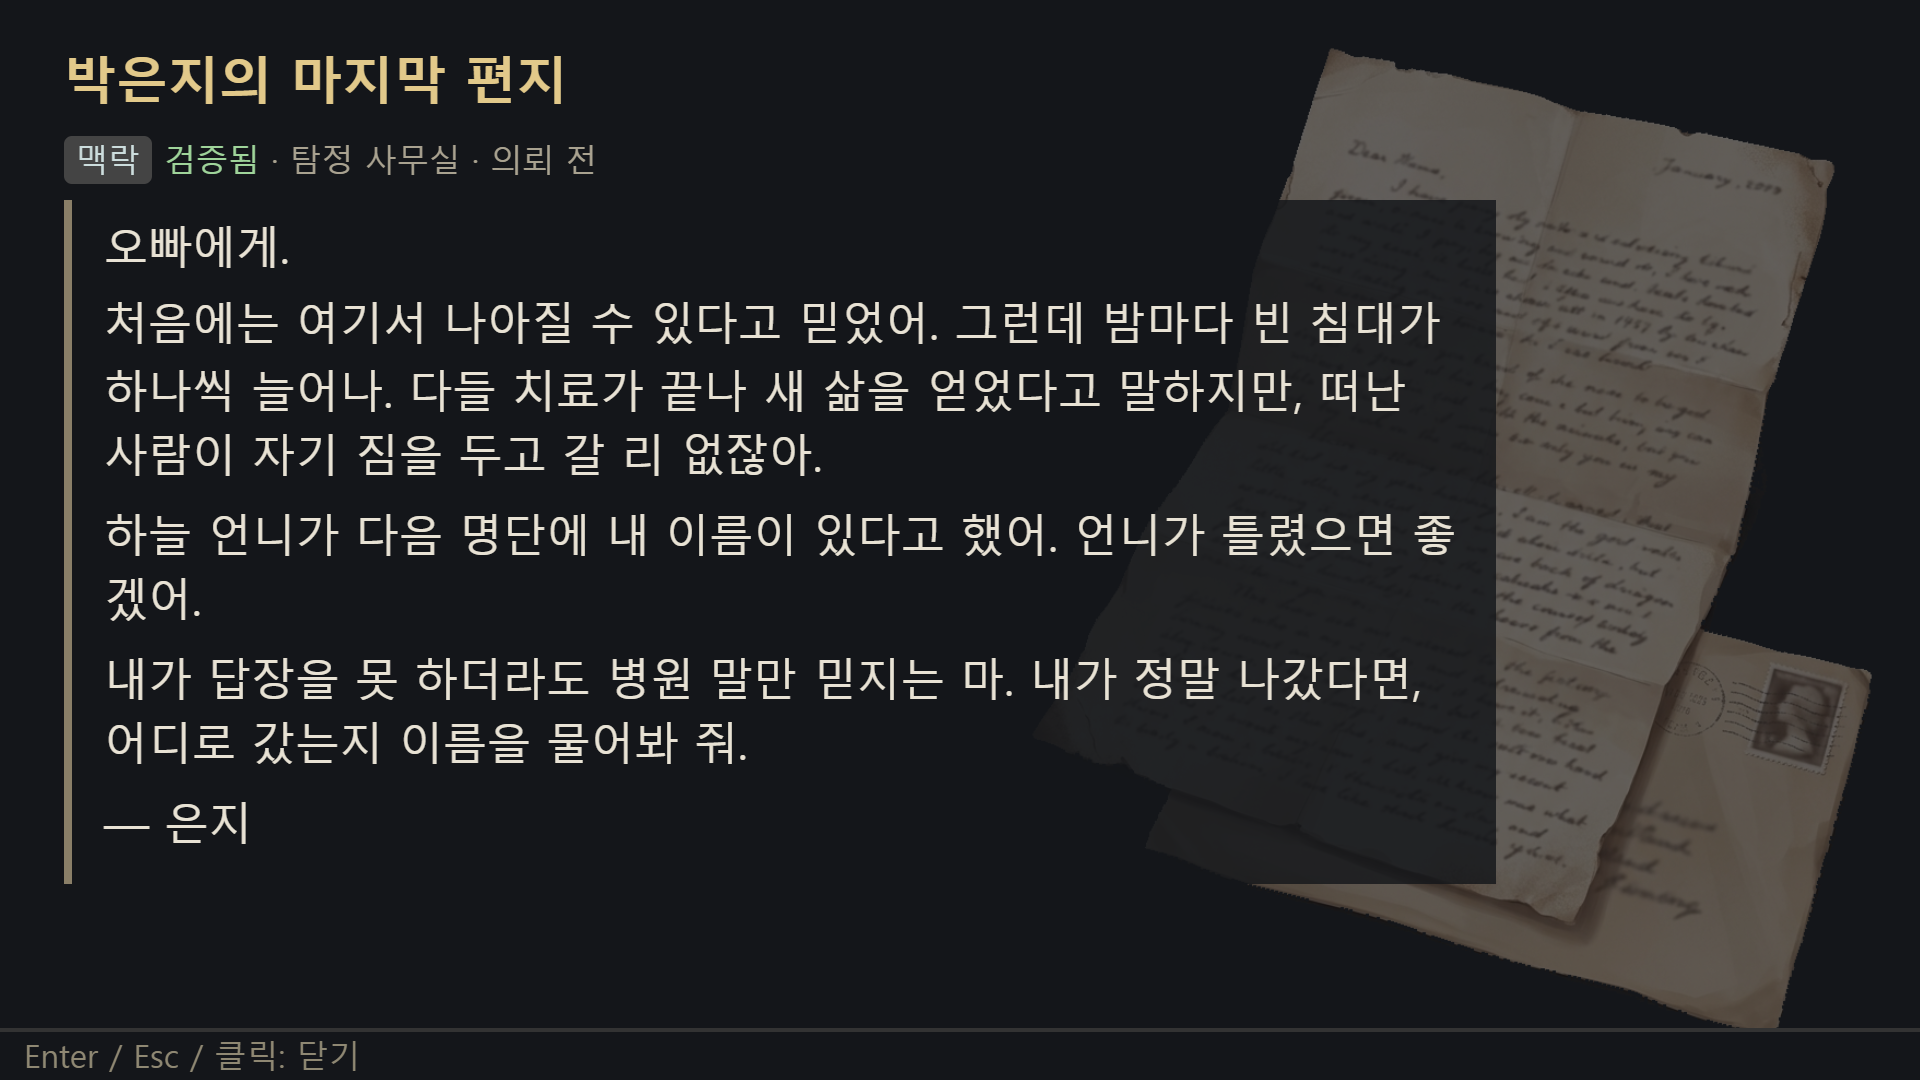
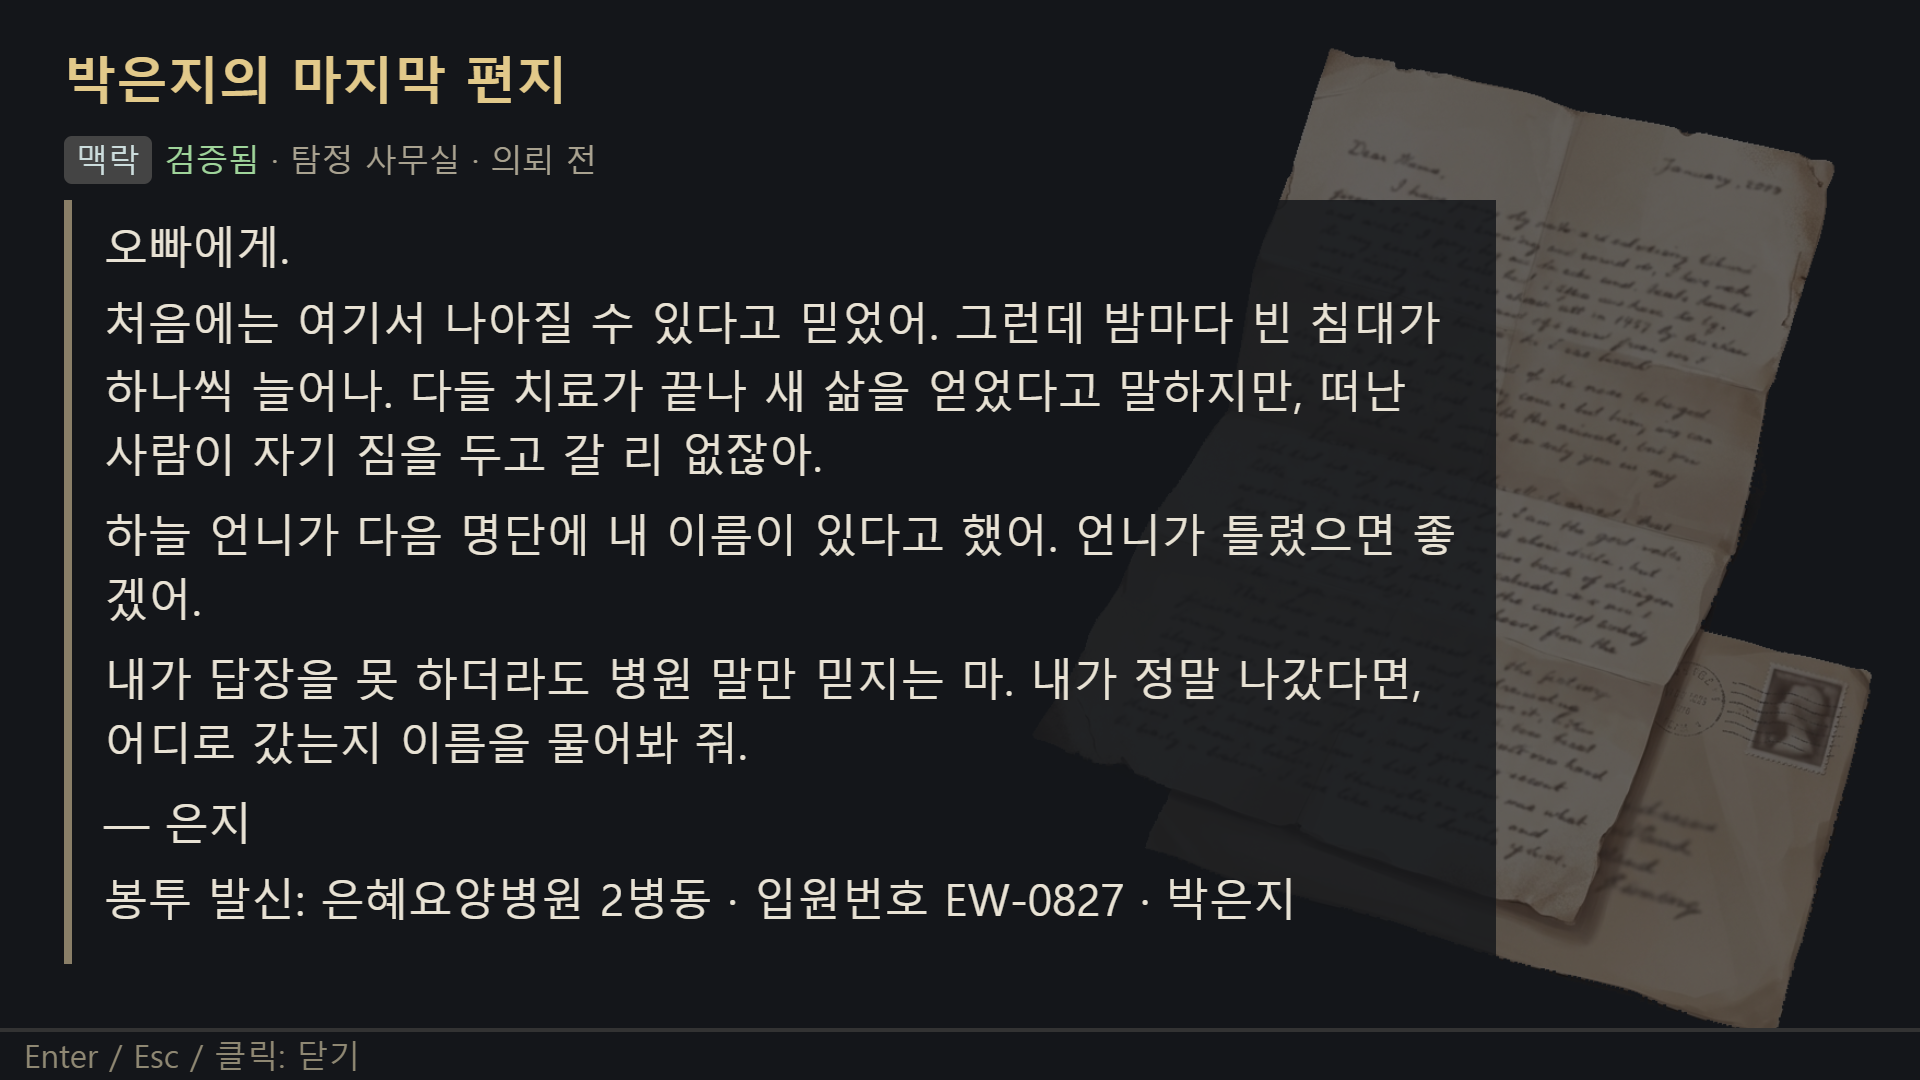
5단계 보완: P04 약자 제거·정답 변경, 원문-퍼즐 일치(참조 렌더링), E01 봉투 정보, pre-push 훅, 선택기 Enter 통일

Changed region(s): [[0.0312, 0.7944, 0.7812, 0.8861]]

diff --git a/tools/test-e2e.ts b/tools/test-e2e.ts
@@ -27,6 +27,7 @@ const area = () => cw<string>('cw.scene.areaId');
 const teleport = (x: number) => cw(`cw.scene.teleportX(${x})`);
 const promptText = async () => ((await page.locator('#prompt:not(.hidden)').count()) ? (await page.locator('#prompt').innerText()).replace(/\s+/g, ' ') : '');
 const wait = (ms: number) => page.waitForTimeout(ms);
+const confirmPick = async () => { for (let i = 0; i < 20 && !(await page.locator('#dialogue .opt.sel').innerText()).includes('제시하기'); i++) await press('ArrowDown'); await press('Enter'); }; // 선택기: [제시하기] 행에서 Enter
 const click = (sel: string) => page.locator(sel).first().click();
 const shot = async (name: string) => { if (SHOT) await page.screenshot({ path: `docs/screenshots/${name}.png` }); };
 // 화면 텍스트에 내부 ID(영문 snake_case, E01 같은 단서 코드, 플래그 이름)가 나오면 안 된다
@@ -85,11 +86,11 @@ await page.waitForSelector('#dialogue');
 await wait(60); await press('Enter'); // 타이핑 완성
 await press('ArrowDown'); await press('Enter'); // [단서 제시]
 await press('Space'); // 첫 번째 자료(E01) 선택
-await press('Enter');
+await confirmPick();
 await wait(30);
 check((await page.locator('#dialogue .msg').innerText()).includes('직접 충돌하지 않는다'), '관련 없는 단서 제시: 중립 메시지만');
 await press('Enter'); // 선택이 [단서 제시]에 남아 있으므로 바로 다시 열기
-await press('ArrowDown'); await press('Space'); await press('Enter'); // E03 제시 → 모순 → 한지수 노드
+await press('ArrowDown'); await press('Enter'); await confirmPick(); // E03 제시 (Enter 로도 선택된다) → 모순 → 한지수 노드
 await wait(60); await press('Enter'); await press('Enter'); // 한지수 노드 → b_rev (수정 진술)
 await wait(60); await press('Enter');
 check(await cw<boolean>("cw.state.statements.baek_s1?.stage === 'revised'"), '진술 3단계: 미확인 → 모순 → 수정');
@@ -354,7 +355,7 @@ await until('모릅니다.');
 await pickEvidence(3);
 check((await page.locator('#dialogue').innerText()).includes('정하늘 손목띠 조각'), '[씬 3] 대면 후 E04 표시 이름이 “정하늘 손목띠 조각”');
 await noIds('[씬 3] 단서 제시 선택기');
-await press('Enter');
+await confirmPick();
 await until('그 방에 들어간 적 없어요');
 check(await cw<boolean>("cw.state.statements.haneul_s_denial?.stage === 'unconfirmed'"), '[씬 3] “그 방에 들어간 적 없어요”는 진술로만 기록(유죄 단서 아님)');
 await mash();
@@ -414,7 +415,7 @@ await teleport(360); await wait(60);
 check((await promptText()) === '', '[씬 4] 백선우가 거절하기 전에는 부원장 PC 를 볼 수 없다');
 await talkTo(150); await press('Enter');
 check((await page.locator('#dialogue .text').innerText()).includes('지병으로 돌아가셨습니다'), '[씬 4] 백선우 첫 진술');
-await pickEvidence(1); await press('Enter'); // E03 제시
+await pickEvidence(1); await confirmPick(); // E03 제시
 await wait(60);
 check(await cw<boolean>("cw.state.statements.baek_s_natural.stage === 'contradiction'"), '[씬 4] E03 제시 → 기존 진술 baek_s_natural 이 모순으로');
 await until('외부인이 볼 자료가 아닙니다.'); await mash();
@@ -448,11 +449,11 @@ await exitRoom('floor3');
 await enterRoom(630, 'room_oh');
 await talkTo(150); await press('Enter');
 check((await page.locator('#dialogue .text').innerText()).includes('의자에 앉은 채 숨을 쉬지 않았어요'), '[씬 4] 오미란 첫 진술');
-await pickEvidence(1); await press('Enter'); // E03
+await pickEvidence(1); await confirmPick(); // E03
 check(await cw<boolean>("cw.state.statements.oh_s_first.stage === 'contradiction'"), '[씬 4] E03 제시 → 오미란 진술이 모순으로');
 await until('…제가 잘못 적었습니다.');
 await pickEvidence(3); await press('ArrowDown'); await press('Space'); // E04 + E06
-await press('Enter');
+await confirmPick();
 await until('원장님은 기도대 옆 바닥에 누워 있었고');
 check(await cw<boolean>("cw.state.statements.oh_s_first.stage === 'revised'"), '[씬 4] E04 + E06 제시 → 수정 진술');
 await mash();
@@ -495,6 +496,7 @@ await page.mouse.move(5, 5);
 for (let i = 0; i < 12 && (await page.locator('#puzzle .tk.foc[data-token="doc_selection"]').count()) === 0; i++) await press('ArrowLeft');
 await press('Enter'); await press('ArrowLeft'); await press('Enter'); // 선정표 → 이혜정
 await press('ArrowRight'); await press('Enter'); await press('ArrowRight'); await press('Enter'); // 승인표 → 이한신
+await press('ArrowRight', 2); await press('Enter'); await press('ArrowRight'); await press('Enter'); // 이송 지시서 → 이혜정 (백선우 칸에서 한 칸 뒤로 돌아 이혜정)
 await focusOn('#puzzle .submit.foc'); await press('Enter'); await wait(100);
 check(await cw<boolean>("cw.state.solvedPuzzleIds.includes('P04_approval_chain') && cw.state.verifiedEvidenceIds.includes('E10_consent_forms')"), '[P04] 정답(키보드) → E10·E11 검증');
 await press('Enter'); await page.waitForSelector('#dialogue'); await wait(60); await press('Enter');

diff --git a/src/ui/puzzle.ts b/src/ui/puzzle.ts
@@ -91,7 +91,7 @@ export function openPuzzle(s: GameState, puzzleId: string, onClose: (solved: boo
   function mainHtml(): string {
     const here = (z: string) => visibleTokens().filter((k) => (where[k] ?? (timeline ? OUTSIDE : undefined)) === z);
     if (layout === 'lightbox') {
-      return `<div class="panels">${(p.panels ?? []).map((pn) => `<div class="panel"><div class="ph-t">${esc(pn.title)}</div>${pn.lines.map((l) => `<div>${esc(l)}</div>`).join('')}</div>`).join('')}</div>`;
+      return `<div class="panels">${(p.panels ?? []).map((pn) => { const lines = pn.evidenceId ? (shownEvidence(s, pn.evidenceId)?.body ?? []) : (pn.lines ?? []); return `<div class="panel"><div class="ph-t">${esc(pn.title)}</div>${lines.map((l) => `<div>${esc(l)}</div>`).join('')}</div>`; }).join('')}</div>`;
     }
     if (layout === 'connect') {
       const zs = allZones();
@@ -99,7 +99,7 @@ export function openPuzzle(s: GameState, puzzleId: string, onClose: (solved: boo
         const y = 4 + i * 24;
         return `<div class="crow" style="top:${y}%"><span class="tk${grabbed === t.slot ? ' grab' : ''}${isFocus('token', t.slot) ? ' foc' : ''}" data-token="${esc(t.slot)}">${esc(t.token ?? t.label)}</span><span class="cdet">${esc(t.detail ?? '')}</span></div>`;
       }).join('');
-      const nodes = zs.map((z) => `<div class="zone node" data-zone="${z.id}" style="left:${z.x}%;top:${z.y}%;width:${z.w}%;height:${z.h}%"><span class="zl">${esc(z.label)}</span></div>`).join('');
+      const nodes = zs.map((z) => `<div class="zone node" data-zone="${z.id}" style="left:${z.x}%;top:${z.y}%;width:${z.w}%;height:${z.h}%"><span class="zl">${esc(z.label)}</span>${z.sub ? `<span class="zs">${esc(z.sub)}</span>` : ''}</div>`).join('');
       const lines = placeTasks.map((t, i) => {
         const z = zs.find((q) => q.id === where[t.slot]); if (!z) return '';
         return `<line x1="58" y1="${4 + i * 24 + 6}" x2="${z.x}" y2="${z.y + z.h / 2}" />`;
@@ -127,10 +127,10 @@ export function openPuzzle(s: GameState, puzzleId: string, onClose: (solved: boo
     const hintTxt = hintLevel ? `<div class="hint-t">힌트 ${hintLevel}단계: ${esc(p.hintTexts[hintLevel - 1])}</div>` : '';
     const fb = solved ? '<div class="ok">맞춰졌다. (Enter: 닫기)</div>'
       : `${conflicts.length ? `<div class="warn">${conflicts.map((c) => `· ${esc(c)}`).join('<br>')}</div>` : ''}${note ? `<div class="note">${esc(note)}</div>` : ''}${hintTxt}`;
-    const side = `<div class="slotlbl">제공 정보</div><ul>${(p.info ?? []).map((i) => `<li>${esc(i)}</li>`).join('')}</ul>
-      <div class="slotlbl">원문 자료 다시 열기</div>${srcs}${fb}`;
+    const info = (p.info ?? []).length ? `<div class="slotlbl">제공 정보</div><ul>${p.info!.map((i) => `<li>${esc(i)}</li>`).join('')}</ul>` : '';
+    const side = `${info}${srcs ? '<div class="slotlbl">원문 자료 다시 열기</div>' + srcs : ''}${fb}`;
     box.className = `modal puzzle lay-${layout}`;
-    box.innerHTML = `<div class="ptitle">${esc(p.title ?? '')}</div>
+    box.innerHTML = `<div class="ptitle">${esc(p.title ?? '')}${p.subtitle ? ` <span class="psub">${esc(p.subtitle)}</span>` : ''}</div>
       <div class="pleft">${mainHtml()}${tray}</div>
       <div class="pright">${side}</div>
       <div class="ptasks">${taskRows}${chips}<button class="submit${isFocus('submit', 'submit') ? ' foc' : ''}" data-submit>[확인]</button></div>

diff --git a/src/ui/dialogue.ts b/src/ui/dialogue.ts
@@ -50,7 +50,7 @@ export function openDialogue(s: GameState, dialogueId: string, onClose: (acquire
     picker = { cursor: 0, chosen: new Set(), list }; render();
   }
   function confirmPicker() {
-    if (!picker || !picker.chosen.size) { msg = '제시할 자료를 고른다 (Space).'; render(); return; }
+    if (!picker || !picker.chosen.size) { msg = '제시할 자료를 고른 뒤 [제시하기]를 선택한다.'; render(); return; }
     const r = presentEvidence(s, d, dialogueId, nodeId, [...picker.chosen]);
     if (r.kind === 'ok') go(r.next); else { msg = r.message; picker = null; render(); }
   }
@@ -70,11 +70,12 @@ export function openDialogue(s: GameState, dialogueId: string, onClose: (acquire
     box.className = 'dlg' + (portrait ? ' has-portrait' : '');
     let opts = '';
     if (picker) {
-      opts = '<div class="slotlbl">제시할 자료 — ↑↓ 이동 · Space 선택 · Enter 제시 · Esc 취소</div>' +
-        picker.list.map((id, i) => {
+      opts = '<div class="slotlbl">제시할 자료 — ↑↓ 이동 · Enter/Space 선택 · [제시하기]에서 Enter · Esc 취소</div>' +
+        [...picker.list.map((id, i) => {
           const e = shownEvidence(s, id)!;
           return `<button class="opt${i === picker!.cursor ? ' sel' : ''}" data-pi="${i}"><span class="box">${picker!.chosen.has(id) ? '☑' : '☐'}</span><span class="tag t-${e.sourceType}">${TYPE_LABEL[e.sourceType]}</span>${esc(e.title)}</button>`;
-        }).join('');
+        }), `<button class="opt${picker.cursor === picker.list.length ? ' sel' : ''}" data-pi="${picker.list.length}">[제시하기] (${picker.chosen.size}개 선택)</button>`]
+          .slice(Math.max(0, Math.min(picker.cursor - 2, picker.list.length + 1 - 5)), Math.max(0, Math.min(picker.cursor - 2, picker.list.length + 1 - 5)) + 5).join('');
     } else if (!typing) {
       const single = items.length === 1;
       opts = single ? `<div class="cont">▼ Enter</div>` :
@@ -94,6 +95,7 @@ export function openDialogue(s: GameState, dialogueId: string, onClose: (acquire
   });
   function toggle() {
     if (!picker) return;
+    if (picker.cursor === picker.list.length) { confirmPicker(); return; }
     const id = picker.list[picker.cursor];
     if (picker.chosen.has(id)) picker.chosen.delete(id); else if (picker.chosen.size < 3) picker.chosen.add(id);
     render();
@@ -103,10 +105,11 @@ export function openDialogue(s: GameState, dialogueId: string, onClose: (acquire
     id: 'dialogue',
     onKey(e) {
       if (picker) {
-        if (e.key === 'ArrowDown') picker.cursor = (picker.cursor + 1) % picker.list.length;
-        else if (e.key === 'ArrowUp') picker.cursor = (picker.cursor + picker.list.length - 1) % picker.list.length;
+        const n = picker.list.length + 1; // 마지막 행 = [제시하기]
+        if (e.key === 'ArrowDown') picker.cursor = (picker.cursor + 1) % n;
+        else if (e.key === 'ArrowUp') picker.cursor = (picker.cursor + n - 1) % n;
         else if (e.key === ' ') toggle();
-        else if (e.key === 'Enter' && !e.repeat) { confirmPicker(); return; }
+        else if (e.key === 'Enter' && !e.repeat) { if (picker.cursor === picker.list.length) { confirmPicker(); return; } toggle(); }
         else if (e.key === 'Escape') picker = null;
         render(); return;
       }

diff --git a/tests/scene34.test.ts b/tests/scene34.test.ts
@@ -154,3 +154,32 @@ describe('씬 3·4 대사 출처', () => {
     for (const d of Object.values(D)) for (const n of Object.values(d.nodes)) expect(['spec', 'new']).toContain(n.source);
   });
 });
+
+describe('5단계 보완', () => {
+  it('P04: 인물 노드에 약자가 없고 이름·역할만 있다, 정답은 선정표·이송 지시서 → 이혜정', () => {
+    const p = P('P04_approval_chain');
+    for (const z of p.zones!) { expect(z.label).not.toMatch(/LH|BSW|\(/); expect(z.sub).toBeTruthy(); }
+    expect(p.correctSlots).toEqual({ doc_selection: ['lee_hyejeong'], doc_approval: ['lee_hanshin'], doc_schedule: ['baek_sunwoo'], doc_transfer: ['lee_hyejeong'] });
+    const transfer = p.tasks!.find((t) => t.slot === 'doc_transfer')!;
+    expect(transfer.detail).toBe('서명: 이혜정 · 권한: 이송 지시');
+    expect(JSON.stringify(p.tasks)).not.toContain('BSW_ADMIN');
+    const s = createGameState();
+    expect(submitPuzzle(s, p.id, { ...p.correctSlots, doc_transfer: ['baek_sunwoo'] }).status).toBe('wrong');
+  });
+  it('P03: 예비 기록·수정 이력 패널은 E03·E07 원문을 참조하고, 띄어쓰기·문장 위치 방해 항목이 성립한다', () => {
+    const p = P('P03_revision_diff');
+    expect(p.panels!.filter((x) => x.evidenceId).map((x) => x.evidenceId)).toEqual(['E03_preliminary_exam', 'E07_report_revision']);
+    expect(p.panels!.filter((x) => x.evidenceId).every((x) => !x.lines)).toBe(true);
+    const e03 = shownEvidence(createGameState(), 'E03_preliminary_exam')!.body!;
+    const fin = p.panels!.find((x) => x.title === '최종 기록')!.lines!;
+    expect(e03).toContain('의식없음, 미약 호흡');
+    expect(fin).toContain('의식 없음, 발견 당시 사망');
+    expect(e03[e03.length - 1]).toBe('※ 부원장 재검토 요청');
+    expect(fin[0]).toBe('※ 부원장 재검토 요청'); // 문장 위치 이동
+  });
+  it('E01 원문 끝에 봉투 정보(입원번호 EW-0827)가 있고 새 문장으로 표시된다', () => {
+    const e = shownEvidence(createGameState(), 'E01_last_letter')!;
+    expect(e.body![e.body!.length - 1]).toBe('봉투 발신: 은혜요양병원 2병동 · 입원번호 EW-0827 · 박은지');
+    expect(e.newText).toEqual([e.body![e.body!.length - 1]]);
+  });
+});

diff --git a/src/core/types.ts b/src/core/types.ts
@@ -3,6 +3,7 @@ export type SourceType = 'physical' | 'record' | 'testimony' | 'context';
 export interface Evidence {
   id: string; title: string; description: string; sourceType: SourceType;
   acquiredSceneId: string; sourceCharacterId: string; timestamp: string;
+  newText?: string[];  // body 중 새로 쓴 줄 (보고용)
   body?: string[];   // 원문(문서 전문). HTML 로 표시한다
   illust?: string;
   reveal?: { flag: string; title?: string; description?: string; sourceCharacterId?: string }; // 플래그가 서면 표시 이름·설명이 바뀐다   // 원문 보기 배경 일러스트 (public/assets/illust/<이름>.png)
@@ -18,7 +19,7 @@ export interface Claim {
 }
 export type PuzzleType = 'SpatialPlacement' | 'Timeline' | 'DocumentDiff' | 'Connection' | 'LogicGrid';
 export interface PuzzleTask { slot: string; label: string; token?: string; detail?: string; kind: 'place' | 'mark'; options: { id: string; label: string }[] }
-export interface PuzzleBox { id: string; label: string; x: number; y: number; w: number; h: number } // 평면도 좌표(%)
+export interface PuzzleBox { id: string; label: string; sub?: string; x: number; y: number; w: number; h: number } // 평면도 좌표(%)
 export interface Puzzle {
   id: string; type: PuzzleType; flagOnSolve: string;
   // 화면 구성 데이터
@@ -26,7 +27,8 @@ export interface Puzzle {
   title?: string; info?: string[]; tasks?: PuzzleTask[]; fixtures?: PuzzleBox[]; zones?: PuzzleBox[];
   tokens?: { id: string; label: string }[];            // timeline: 사건 카드
   boxes?: { id: string; label: string }[];             // timeline: 시간 칸 (id = 슬롯)
-  panels?: { title: string; lines: string[] }[];       // lightbox: 겹쳐 보는 문서
+  panels?: { title: string; evidenceId?: string; lines?: string[] }[]; // evidenceId 로 원문(body)을 참조하거나, 단서가 아닌 문서는 lines
+  subtitle?: string;       // lightbox: 겹쳐 보는 문서
   openWhen?: { flags?: string[]; evidence?: string[] }; // 자동으로 열리는 조건
   solvedDialogue?: string;                              // 해결 직후 독백 (중간 결론만)
   sourceEvidenceIds: string[]; verifiedEvidenceIds: string[];

diff --git a/tools/validate-data.ts b/tools/validate-data.ts
@@ -73,6 +73,7 @@ const needEv = (id: string, where: string) => { if (!evidenceById.has(id)) err(`
 
 needEvLater.forEach(([id, w]) => needEv(id, w));
 for (const e of evidenceList) if (e.sourceCharacterId && !charIds.has(e.sourceCharacterId)) err(`${e.id}: 없는 인물 ${e.sourceCharacterId}`);
+for (const e of evidenceList) for (const l of e.newText ?? []) if (!e.body?.includes(l)) err(`${e.id}: newText 가 body 에 없음`);
 for (const e of evidenceList) if (e.illust && !existsSync(`public/assets/illust/${e.illust}.png`)) err(`${e.id}: 없는 일러스트 ${e.illust}`);
 for (const [a, b] of conflictPairs) { needEv(a, 'conflicts'); needEv(b, 'conflicts'); }
 
@@ -98,6 +99,12 @@ for (const p of puzzles) {
       const [slot, tok] = k.split(':');
       if (slot === t.slot && !ids.has(tok.replace(/^!/, ''))) err(`${p.id}: ${k} 가 ${t.slot} 선택지에 없음`);
     }
+  }
+  for (const pn of p.panels ?? []) {
+    // 원문 문서는 단서 ID 로 참조한다(복사 금지). 단서가 아닌 문서만 lines 를 직접 가진다.
+    if (pn.evidenceId && pn.lines) err(`${p.id}: 패널 ${pn.title} 이 evidenceId 와 lines 를 함께 가짐 (원문은 참조만)`);
+    if (pn.evidenceId && !evidenceById.get(pn.evidenceId)?.body) err(`${p.id}: 패널 ${pn.title} 의 단서 ${pn.evidenceId} 에 body 없음`);
+    if (!pn.evidenceId && pn.lines) for (const e of evidenceList) if (e.body && pn.lines.length >= 3 && pn.lines.every((l) => e.body!.includes(l))) err(`${p.id}: 패널 ${pn.title} 이 ${e.id} 원문을 복사함 — evidenceId 로 참조할 것`);
   }
   if (p.hintTexts.length !== 3) err(`${p.id}: hintTexts 는 3개`);
   const slotKeys = new Set(p.slots);

diff --git a/src/ui/ui.css b/src/ui/ui.css
@@ -150,3 +150,7 @@
 .lay-lightbox .ptasks { right: 6px; }
 .lay-lightbox .pright { right: 74px; }
 .lay-lightbox .submit { top: 62px; }
+
+.puzzle .zs { display: block; font-size: 7px; color: #a9a290; }
+.puzzle .psub { font-size: 8px; font-weight: 400; color: #b8b09c; margin-left: 6px; }
+.lay-lightbox .ptitle { white-space: nowrap; }

diff --git a/AGENTS.md b/AGENTS.md
@@ -71,3 +71,4 @@ npx tsx tools/reading-time.ts   # 씬 1~2 읽기 시간 추정 (분당 500자)
 ## 커밋
 - 단계 하나를 끝낼 때, 또는 의미 있는 기능 단위로 커밋한다.
 - 커밋 전에 `npm test`와 `npm run validate`를 통과시킨다.
+- push 전 훅(`.githooks/pre-push`: `npm test && npm run validate`) 통과 필수. `--no-verify` 금지. `npm install` 시 `prepare` 스크립트가 `core.hooksPath` 를 설정한다.

diff --git a/CLAUDE.md b/CLAUDE.md
@@ -71,3 +71,4 @@ npx tsx tools/reading-time.ts   # 씬 1~2 읽기 시간 추정 (분당 500자)
 ## 커밋
 - 단계 하나를 끝낼 때, 또는 의미 있는 기능 단위로 커밋한다.
 - 커밋 전에 `npm test`와 `npm run validate`를 통과시킨다.
+- push 전 훅(`.githooks/pre-push`: `npm test && npm run validate`) 통과 필수. `--no-verify` 금지. `npm install` 시 `prepare` 스크립트가 `core.hooksPath` 를 설정한다.
